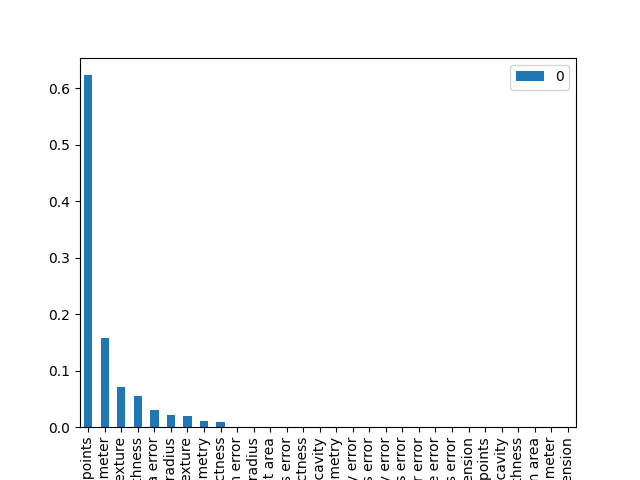
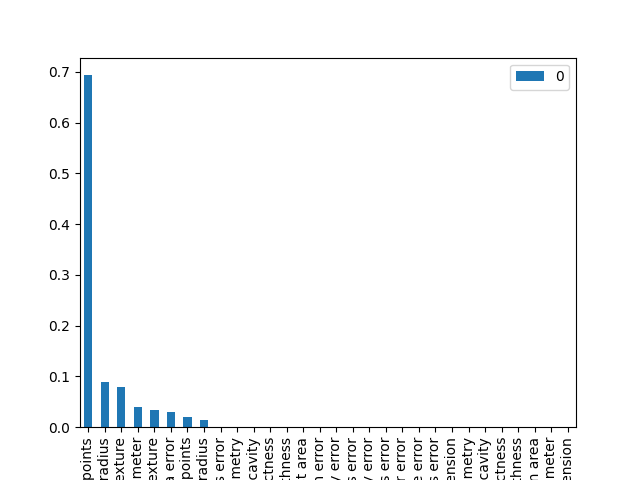
grafico matriz de confusao

diff --git a/decision_tree.py b/decision_tree.py
@@ -2,7 +2,8 @@ import pandas
 import seaborn as seaborn
 from matplotlib import pyplot
 from sklearn import tree
-from sklearn.metrics import confusion_matrix, precision_score, recall_score, accuracy_score
+from sklearn.metrics import confusion_matrix, precision_score, recall_score, accuracy_score, f1_score, \
+    ConfusionMatrixDisplay
 from sklearn.model_selection import train_test_split, cross_val_score
 from sklearn.tree import DecisionTreeClassifier
 
@@ -39,8 +40,7 @@ class DecisionTree(DecisionTreeClassifier):
         # random state é a aleatoriedade na divisão. serve pra não ficar um conjunto com com maligno e outro só com benigno, por exemplo
         self.train_features, self.test_features, self.target_train, self.target_test = train_test_split(feature_data,
                                                                                                         target,
-                                                                                                        test_size=0.3,
-                                                                                                        random_state=43)
+                                                                                                        test_size=0.5)
         print(f'Train shape: {self.train_features.shape}')
         print(f'Test shape: {self.test_features.shape}')
         self.fit(self.train_features, self.target_train)
@@ -53,13 +53,21 @@ class DecisionTree(DecisionTreeClassifier):
         return self.predict(self.test_features)
 
     def get_confusion_matrix(self):
+        self.plot_confusion_matrix()
         return confusion_matrix(self.target_test, self.get_predictions(), labels=[0, 1])
+
+    def plot_confusion_matrix(self):
+        ConfusionMatrixDisplay.from_predictions(self.target_test, self.get_predictions(),  display_labels=self.dataset.target_names,)
+        pyplot.savefig('confusion_matrix.png')
 
     def get_accuracy_score(self):
         return accuracy_score(self.target_test, self.get_predictions())
 
     def get_precision_score(self):
         return precision_score(self.target_test, self.get_predictions())
+
+    def get_f1_score(self):
+        return f1_score(self.target_test, self.get_predictions())
 
     def get_recall_score(self):
         # O recall é a fração de casos raros corretamente previstos pelo modelo, em relação ao número
@@ -82,6 +90,7 @@ class DecisionTree(DecisionTreeClassifier):
                        filled=True,
                        fontsize=8)
         pyplot.savefig('tree.png')
+
     def cross_validate(self):
         # cv é o iterador, como se fosse o I do for. nesse caso vai executar 10 vezes e calcular a acuracia de cada uma
-        return cross_val_score(self, self.dataset.data, self.dataset.target, cv=5,scoring='accuracy'),
+        return cross_val_score(self, self.dataset.data, self.dataset.target, cv=10, scoring='accuracy'),

diff --git a/main.py b/main.py
@@ -1,23 +1,30 @@
+from numpy import mean, std
 from sklearn.datasets import load_breast_cancer
+from sklearn.tree import export_text
 
 from decision_tree import DecisionTree
 
-decision_tree = DecisionTree(criterion='entropy')
+decision_tree = DecisionTree(criterion='entropy',max_depth=15)
 decision_tree.set_dataset(load_breast_cancer())
-decision_tree.build_dataframe()
 print(f'Features: {decision_tree.get_features()}')
 print(f'Target Names: {decision_tree.get_target_names()}')
 decision_tree.export_dataframe()
 decision_tree.train()
-scores = decision_tree.cross_validate()
-print(f'scores: {scores}')
-print(f"Cross validation Score Mean: {scores.mean()}")
-print(f"Cross validation standart deviation: {scores.std()}")
 print(f'Prediction: {decision_tree.get_predictions()}')
 print(f'Probabilities: {decision_tree.get_propabilities()}')
 print(f'Accuracy: {decision_tree.get_accuracy_score()}')
-print(f'Confusion Matrix: {decision_tree.get_confusion_matrix()}')
 print(f'Precision: {decision_tree.get_precision_score()}')
 print(f'Recall: {decision_tree.get_recall_score()}')
+print(f'F1 Score: {decision_tree.get_f1_score()}')
+print(f'Confusion Matrix: {decision_tree.get_confusion_matrix()}')
+
+scores = decision_tree.cross_validate()
+print(f'scores: {scores}')
+print(f"Cross validation Score Mean: {mean((scores))}")
+print(f"Cross validation standart deviation: {std(scores)}")
+
+
+print(decision_tree.get_feature_importance())
 decision_tree.plot_feature_importance(decision_tree.get_feature_importance(), 'bar')
 decision_tree.plot_decision_tree()
+print(export_text(decision_tree,feature_names=decision_tree.dataset.feature_names.tolist()))

diff --git a/README.md b/README.md
@@ -50,7 +50,7 @@ extremamente fina e representam as características dos núcleos celulares prese
 </td></tr>
 <tr>
 <td colspan="100%">
-Cada característica avaliada foi separada em 3 conjuntos. Média, desvio padrão e pior. Por exemplo, se pegarmos o "Raio" são avaliados os núcloes presentes na imagem capturada para um determinado nódulo, sendo separada uma média dos raios, o desvio padrão do raio e o pior raio.  
+Cada característica avaliada foi separada em 3 conjuntos. Média, desvio padrão e pior. Por exemplo, se pegarmos o "Raio" são avaliados os núcleos presentes na imagem capturada para um determinado nódulo, sendo separada uma média dos raios, o desvio padrão do raio e o pior raio.  
 </td>
 </tr>
 <tr>
